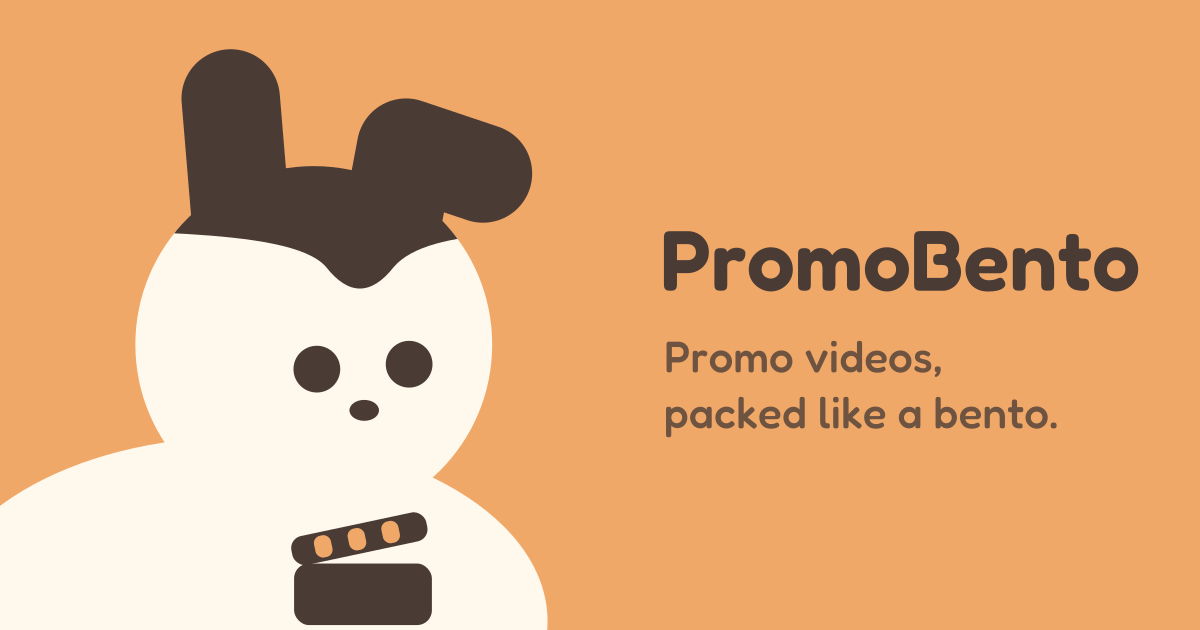
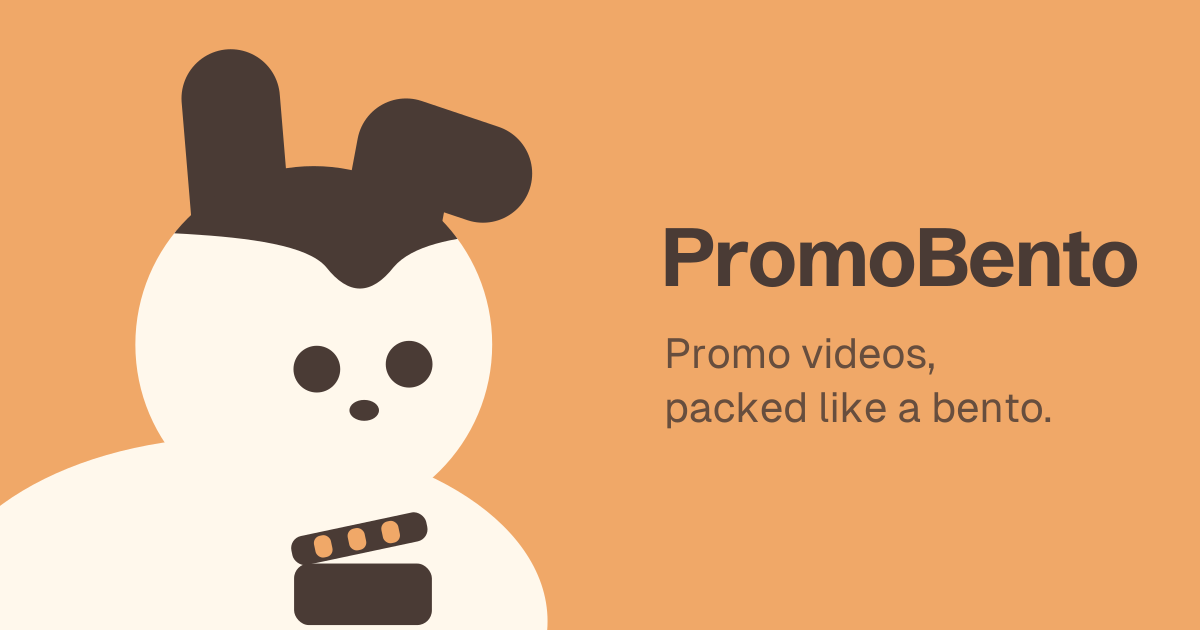
Update PromoBento brand assets and website font design tokens

Changed region(s): [[0.555, 0.3619, 0.9558, 0.4825], [0.555, 0.5127, 0.8942, 0.6937]]

diff --git a/docs/design/agent-studio-reference.html b/docs/design/agent-studio-reference.html
@@ -5,20 +5,20 @@
 <meta name="robots" content="noindex">
 <meta http-equiv="Content-Security-Policy" content="default-src 'none'; script-src 'unsafe-inline'; style-src 'unsafe-inline'; img-src data:; form-action 'none'; base-uri 'none'">
 <title>PromoBento — Studio design reference</title>
[2 lines of base64/hex data omitted]
 <style>
-:root{color-scheme:light;--ui-bg:#FFFFFF;--ui-surface:#F7F8F9;--ui-surfaceRaised:#FFFFFF;--ui-surfaceMuted:#F2F4F6;--ui-text:#25282D;--ui-textMuted:#656D75;--ui-border:#DCE0E4;--ui-borderControl:#7A838D;--ui-primary:#253E5B;--ui-primaryText:#FFFFFF;--ui-primaryHover:#1E334D;--ui-primaryActive:#182A40;--ui-surfaceHover:#F0F3F6;--ui-surfaceActive:#ECF0F4;--ui-link:#253E5B;--ui-focus:#253E5B;--ui-danger:#A33838;--ui-dangerText:#FFFFFF;--ui-dangerHover:#8F2C2C;--ui-dangerActive:#7E2323;--ui-dangerBg:#F8EEEE;--ui-success:#336647;--ui-successBg:#EFF4F1;--ui-warning:#805D27;--ui-warningBg:#F7F2E8;--ui-info:#355C7E;--ui-infoBg:#EEF2F6;--ui-selection:#E9EEF3;--ui-selectionText:#253E5B;--ui-disabled:#E4E8EC;--ui-disabledText:#7B848D;--font-body:Arial, Helvetica, ui-sans-serif, system-ui, -apple-system, BlinkMacSystemFont, "Segoe UI", sans-serif;--font-display:Georgia, "Times New Roman", serif;--rail:248px;--inspector:320px;--touch:44px;--radius-control:4px;--brand-mark-size:32px;--brand-gap:8px}html[data-theme=dark]{color-scheme:dark;--ui-bg:#161819;--ui-surface:#202326;--ui-surfaceRaised:#282D32;--ui-surfaceMuted:#252A2F;--ui-text:#E5E8EC;--ui-textMuted:#ACB4BF;--ui-border:#3B4148;--ui-borderControl:#7E8995;--ui-primary:#B8CCE5;--ui-primaryText:#182D44;--ui-primaryHover:#CCDCF0;--ui-primaryActive:#A2BCD9;--ui-surfaceHover:#282F36;--ui-surfaceActive:#293443;--ui-link:#B8CCE5;--ui-focus:#B8CCE5;--ui-danger:#E6AAAA;--ui-dangerText:#371B1B;--ui-dangerHover:#F0BBBB;--ui-dangerActive:#DA9595;--ui-dangerBg:#35282A;--ui-success:#9BC3AC;--ui-successBg:#24322B;--ui-warning:#D7BD8E;--ui-warningBg:#343024;--ui-info:#AAC5DF;--ui-infoBg:#273340;--ui-selection:#293443;--ui-selectionText:#E5E8EC;--ui-disabled:#31373E;--ui-disabledText:#818C98;}@media(prefers-color-scheme:dark){html[data-theme=system]{color-scheme:dark;--ui-bg:#161819;--ui-surface:#202326;--ui-surfaceRaised:#282D32;--ui-surfaceMuted:#252A2F;--ui-text:#E5E8EC;--ui-textMuted:#ACB4BF;--ui-border:#3B4148;--ui-borderControl:#7E8995;--ui-primary:#B8CCE5;--ui-primaryText:#182D44;--ui-primaryHover:#CCDCF0;--ui-primaryActive:#A2BCD9;--ui-surfaceHover:#282F36;--ui-surfaceActive:#293443;--ui-link:#B8CCE5;--ui-focus:#B8CCE5;--ui-danger:#E6AAAA;--ui-dangerText:#371B1B;--ui-dangerHover:#F0BBBB;--ui-dangerActive:#DA9595;--ui-dangerBg:#35282A;--ui-success:#9BC3AC;--ui-successBg:#24322B;--ui-warning:#D7BD8E;--ui-warningBg:#343024;--ui-info:#AAC5DF;--ui-infoBg:#273340;--ui-selection:#293443;--ui-selectionText:#E5E8EC;--ui-disabled:#31373E;--ui-disabledText:#818C98;}}
+:root{color-scheme:light;--ui-bg:#FFFFFF;--ui-surface:#F7F8F9;--ui-surfaceRaised:#FFFFFF;--ui-surfaceMuted:#F2F4F6;--ui-text:#25282D;--ui-textMuted:#656D75;--ui-border:#DCE0E4;--ui-borderControl:#7A838D;--ui-primary:#253E5B;--ui-primaryText:#FFFFFF;--ui-primaryHover:#1E334D;--ui-primaryActive:#182A40;--ui-surfaceHover:#F0F3F6;--ui-surfaceActive:#ECF0F4;--ui-link:#253E5B;--ui-focus:#253E5B;--ui-danger:#A33838;--ui-dangerText:#FFFFFF;--ui-dangerHover:#8F2C2C;--ui-dangerActive:#7E2323;--ui-dangerBg:#F8EEEE;--ui-success:#336647;--ui-successBg:#EFF4F1;--ui-warning:#805D27;--ui-warningBg:#F7F2E8;--ui-info:#355C7E;--ui-infoBg:#EEF2F6;--ui-selection:#E9EEF3;--ui-selectionText:#253E5B;--ui-disabled:#E4E8EC;--ui-disabledText:#7B848D;--font-body:"Geist Sans", ui-sans-serif, system-ui, -apple-system, BlinkMacSystemFont, "Segoe UI", "PingFang SC", "Hiragino Sans", "Noto Sans CJK SC", "Microsoft YaHei", "Noto Sans Arabic", sans-serif;--font-display:"Schibsted Grotesk", ui-sans-serif, system-ui, -apple-system, BlinkMacSystemFont, "Segoe UI", sans-serif;--font-mono:"Geist Mono", ui-monospace, SFMono-Regular, Consolas, "Liberation Mono", monospace;--wordmark-size:24px;--wordmark-line:32px;--wordmark-weight:700;--wordmark-tracking:-0.8px;--section-size:20px;--section-line:28px;--section-weight:600;--rail:248px;--inspector:320px;--touch:44px;--radius-control:4px;--brand-mark-size:32px;--brand-gap:8px}html[data-theme=dark]{color-scheme:dark;--ui-bg:#161819;--ui-surface:#202326;--ui-surfaceRaised:#282D32;--ui-surfaceMuted:#252A2F;--ui-text:#E5E8EC;--ui-textMuted:#ACB4BF;--ui-border:#3B4148;--ui-borderControl:#7E8995;--ui-primary:#B8CCE5;--ui-primaryText:#182D44;--ui-primaryHover:#CCDCF0;--ui-primaryActive:#A2BCD9;--ui-surfaceHover:#282F36;--ui-surfaceActive:#293443;--ui-link:#B8CCE5;--ui-focus:#B8CCE5;--ui-danger:#E6AAAA;--ui-dangerText:#371B1B;--ui-dangerHover:#F0BBBB;--ui-dangerActive:#DA9595;--ui-dangerBg:#35282A;--ui-success:#9BC3AC;--ui-successBg:#24322B;--ui-warning:#D7BD8E;--ui-warningBg:#343024;--ui-info:#AAC5DF;--ui-infoBg:#273340;--ui-selection:#293443;--ui-selectionText:#E5E8EC;--ui-disabled:#31373E;--ui-disabledText:#818C98;}@media(prefers-color-scheme:dark){html[data-theme=system]{color-scheme:dark;--ui-bg:#161819;--ui-surface:#202326;--ui-surfaceRaised:#282D32;--ui-surfaceMuted:#252A2F;--ui-text:#E5E8EC;--ui-textMuted:#ACB4BF;--ui-border:#3B4148;--ui-borderControl:#7E8995;--ui-primary:#B8CCE5;--ui-primaryText:#182D44;--ui-primaryHover:#CCDCF0;--ui-primaryActive:#A2BCD9;--ui-surfaceHover:#282F36;--ui-surfaceActive:#293443;--ui-link:#B8CCE5;--ui-focus:#B8CCE5;--ui-danger:#E6AAAA;--ui-dangerText:#371B1B;--ui-dangerHover:#F0BBBB;--ui-dangerActive:#DA9595;--ui-dangerBg:#35282A;--ui-success:#9BC3AC;--ui-successBg:#24322B;--ui-warning:#D7BD8E;--ui-warningBg:#343024;--ui-info:#AAC5DF;--ui-infoBg:#273340;--ui-selection:#293443;--ui-selectionText:#E5E8EC;--ui-disabled:#31373E;--ui-disabledText:#818C98;}}
 .brand-heading{display:flex;align-items:center;gap:var(--brand-gap)}.brand-mark{width:var(--brand-mark-size);height:var(--brand-mark-size);flex:none}.brand-mark-white{display:none}html[data-theme=dark] .brand-mark-dark{display:none}html[data-theme=dark] .brand-mark-white{display:block}@media(prefers-color-scheme:dark){html[data-theme=system] .brand-mark-dark{display:none}html[data-theme=system] .brand-mark-white{display:block}}
-*{box-sizing:border-box}body{margin:0;background:var(--ui-bg);color:var(--ui-text);font:16px/1.5 var(--font-body)}button,select,input,textarea{font:inherit;color:inherit}button,select{min-height:var(--touch);border:1px solid var(--ui-borderControl);background:var(--ui-surfaceRaised);padding:8px 12px;border-radius:var(--radius-control);cursor:pointer}input{accent-color:var(--ui-primary)}button:hover{background:var(--ui-surfaceHover)}button:disabled{cursor:not-allowed;opacity:.65}button.primary{background:var(--ui-primary);color:var(--ui-primaryText);border-color:var(--ui-primary)}:focus-visible{outline:2px solid var(--ui-focus);outline-offset:2px}h1,h2{font-family:var(--font-display);font-weight:400}h1{font-size:24px;line-height:32px;margin:0}h2{font-size:24px;margin:0 0 12px}h3{font-size:16px;margin:20px 0 8px}p{margin:8px 0}small,.muted{color:var(--ui-textMuted)}small{font-size:13px}label{display:block;margin:12px 0 6px}.notice{padding:12px 24px;background:var(--ui-surface);border-bottom:1px solid var(--ui-border)}header,footer{display:flex;justify-content:space-between;gap:16px;align-items:center;flex-wrap:wrap;padding:12px 24px;border-bottom:1px solid var(--ui-border)}.top-actions{display:flex;gap:8px;align-items:center}.theme-button{width:var(--touch);height:var(--touch);padding:0}.theme-dark-action{display:none}html[data-theme=dark] .theme-light-action{display:none}html[data-theme=dark] .theme-dark-action{display:inline}@media(prefers-color-scheme:dark){html[data-theme=system] .theme-light-action{display:none}html[data-theme=system] .theme-dark-action{display:inline}}
-.sr-only{position:absolute;width:1px;height:1px;padding:0;overflow:hidden;clip-path:inset(50%)}.skip{position:absolute;left:16px;top:-100px;background:var(--ui-bg);color:var(--ui-text);padding:12px;z-index:99}.skip:focus{top:8px}.workspace{display:grid;grid-template-columns:var(--rail) minmax(0,1fr) var(--inspector)}.rail,.inspector,.center{padding:24px;min-width:0}.rail{border-right:1px solid var(--ui-border)}.inspector{border-left:1px solid var(--ui-border)}.rail button{width:100%;text-align:left;margin:5px 0}.rail button[aria-pressed=true]{background:var(--ui-selection);color:var(--ui-selectionText);border-color:var(--ui-focus)}.bar{display:flex;justify-content:space-between;align-items:flex-start;gap:12px;flex-wrap:wrap}.bar label{margin:0 0 4px}select{max-width:100%}.canvas{width:min(100%,680px);aspect-ratio:var(--video-ratio,16/9);margin:20px auto;display:grid;place-items:center;position:relative;overflow:hidden;background:#101e30;color:#f5f8fc;text-align:center;padding:28px 16px;border:1px solid #566a83}.canvas[data-aspect=portrait]{max-width:270px}.canvas[data-aspect=feed]{max-width:350px}.canvas[data-aspect=square]{max-width:410px}.canvas .sample{font:30px/1.15 Georgia,serif}.canvas p{font-size:12px;color:#dce7f6}.safe{position:absolute;border:1px dashed #dce7f6;pointer-events:none}.transport{display:flex;gap:10px;align-items:center}.transport input{min-width:0;flex:1;min-height:44px}.transport output{font-variant-numeric:tabular-nums;white-space:nowrap;font-size:14px}textarea{width:100%;min-height:112px;resize:vertical;border:1px solid var(--ui-borderControl);border-radius:var(--radius-control);padding:12px;background:var(--ui-surface)}.status{border-left:3px solid var(--ui-info);background:var(--ui-infoBg);color:var(--ui-info);padding:14px;margin:18px 0}.actions{display:flex;flex-wrap:wrap;gap:8px}.quota{border-top:1px solid var(--ui-border);padding-top:12px;margin-top:24px}footer{border-top:1px solid var(--ui-border);font-size:13px}.summary{font-size:14px}ul{padding-left:20px}
+*{box-sizing:border-box}body{margin:0;background:var(--ui-bg);color:var(--ui-text);font:16px/1.5 var(--font-body)}button,select,input,textarea{font:inherit;color:inherit}button,select{min-height:var(--touch);border:1px solid var(--ui-borderControl);background:var(--ui-surfaceRaised);padding:8px 12px;border-radius:var(--radius-control);cursor:pointer}input{accent-color:var(--ui-primary)}button:hover{background:var(--ui-surfaceHover)}button:disabled{cursor:not-allowed;opacity:.65}button.primary{background:var(--ui-primary);color:var(--ui-primaryText);border-color:var(--ui-primary)}:focus-visible{outline:2px solid var(--ui-focus);outline-offset:2px}h1{font-family:var(--font-display);font-size:var(--wordmark-size);line-height:var(--wordmark-line);font-weight:var(--wordmark-weight);letter-spacing:var(--wordmark-tracking);margin:0}h2{font-family:var(--font-body);font-size:var(--section-size);line-height:var(--section-line);font-weight:var(--section-weight);margin:0 0 12px}h3{font-size:16px;margin:20px 0 8px}p{margin:8px 0}small,.muted{color:var(--ui-textMuted)}small{font-size:13px}label{display:block;margin:12px 0 6px}.notice{padding:12px 24px;background:var(--ui-surface);border-bottom:1px solid var(--ui-border)}header,footer{display:flex;justify-content:space-between;gap:16px;align-items:center;flex-wrap:wrap;padding:12px 24px;border-bottom:1px solid var(--ui-border)}.top-actions{display:flex;gap:8px;align-items:center}.theme-button{width:var(--touch);height:var(--touch);padding:0}.theme-dark-action{display:none}html[data-theme=dark] .theme-light-action{display:none}html[data-theme=dark] .theme-dark-action{display:inline}@media(prefers-color-scheme:dark){html[data-theme=system] .theme-light-action{display:none}html[data-theme=system] .theme-dark-action{display:inline}}
+.sr-only{position:absolute;width:1px;height:1px;padding:0;overflow:hidden;clip-path:inset(50%)}.skip{position:absolute;left:16px;top:-100px;background:var(--ui-bg);color:var(--ui-text);padding:12px;z-index:99}.skip:focus{top:8px}.workspace{display:grid;grid-template-columns:var(--rail) minmax(0,1fr) var(--inspector)}.rail,.inspector,.center{padding:24px;min-width:0}.rail{border-right:1px solid var(--ui-border)}.inspector{border-left:1px solid var(--ui-border)}.rail button{width:100%;text-align:left;margin:5px 0}.rail button[aria-pressed=true]{background:var(--ui-selection);color:var(--ui-selectionText);border-color:var(--ui-focus)}.bar{display:flex;justify-content:space-between;align-items:flex-start;gap:12px;flex-wrap:wrap}.bar label{margin:0 0 4px}select{max-width:100%}.canvas{width:min(100%,680px);aspect-ratio:var(--video-ratio,16/9);margin:20px auto;display:grid;place-items:center;position:relative;overflow:hidden;background:#101e30;color:#f5f8fc;text-align:center;padding:28px 16px;border:1px solid #566a83}.canvas[data-aspect=portrait]{max-width:270px}.canvas[data-aspect=feed]{max-width:350px}.canvas[data-aspect=square]{max-width:410px}.canvas .sample{font:30px/1.15 Georgia,serif}.canvas p{font-size:12px;color:#dce7f6}.safe{position:absolute;border:1px dashed #dce7f6;pointer-events:none}.transport{display:flex;gap:10px;align-items:center}.transport input{min-width:0;flex:1;min-height:44px}.transport output{font-family:var(--font-mono);font-variant-numeric:tabular-nums;white-space:nowrap;font-size:14px}textarea{width:100%;min-height:112px;resize:vertical;border:1px solid var(--ui-borderControl);border-radius:var(--radius-control);padding:12px;background:var(--ui-surface)}.status{border-left:3px solid var(--ui-info);background:var(--ui-infoBg);color:var(--ui-info);padding:14px;margin:18px 0}.actions{display:flex;flex-wrap:wrap;gap:8px}.quota{border-top:1px solid var(--ui-border);padding-top:12px;margin-top:24px}footer{border-top:1px solid var(--ui-border);font-size:13px}.summary{font-size:14px}ul{padding-left:20px}
 @media(max-width:1279px){.workspace{grid-template-columns:200px minmax(0,1fr)}.inspector{grid-column:1/-1;border-left:0;border-top:1px solid var(--ui-border);display:grid;grid-template-columns:1fr 1fr;gap:24px}}
 @media(max-width:767px){header,footer,.notice{padding:12px 16px}.workspace{display:block}.rail,.center,.inspector{padding:16px}.rail{border-right:0;border-bottom:1px solid var(--ui-border)}.rail nav{display:flex;gap:8px;overflow-x:auto}.rail button{min-width:120px;width:auto}.rail h2{font-size:20px}.rail .explanation{display:none}.inspector{display:block}.canvas .sample{font-size:26px}.bar>div{max-width:100%}.transport{flex-wrap:wrap}.transport input{min-width:120px}.top-actions small{display:none}}
 @media(prefers-reduced-motion:reduce){*{scroll-behavior:auto}}
 </style></head>
 <body>
 <a class="skip" href="#main">Skip to content</a>
-<div class="notice"><strong>Offline design reference.</strong> Sample states only — no generated video, model calls, cloud rendering, authentication or payment.</div>
[1 lines of base64/hex data omitted]
+<div class="notice"><strong>Offline design reference.</strong> Sample states only — no generated video, model calls, cloud rendering, authentication or payment. Fonts use local fallback in this single-file reference.</div>
[1 lines of base64/hex data omitted]
 <main class="workspace" id="main">
 <aside class="rail"><h2>Shot markers</h2><p class="muted explanation">Optional navigation, not a scene whitelist.</p><nav aria-label="Sample markers"><button data-frame="0">Opening · 000</button><button data-frame="240">Product · 240</button><button data-frame="780">Resolution · 780</button></nav><p class="explanation"><small>Three markers in this sample. A composition can use any number, including one continuous shot.</small></p></aside>
 <section class="center" aria-label="Static composition reference"><div class="bar"><div><h2>Preview</h2><small>Full preview while editing · paid downloads after checks</small><br><small id="identity">Sample revision · frame 240</small></div><div><label for="target">Platform target</label><select id="target"><option value="tiktok:portrait">TikTok · 9:16</option><option value="instagram_feed:feed">Instagram Feed · 4:5</option><option value="instagram_feed:square">Instagram Feed · 1:1</option><option value="instagram_reels:portrait">Instagram Reels · 9:16</option><option value="x:landscape">X · 16:9</option><option value="youtube:landscape">YouTube · 16:9</option><option value="youtube_shorts:portrait">YouTube Shorts · 9:16</option></select></div></div>

diff --git a/docs/design/agent-studio-reference.template.html b/docs/design/agent-studio-reference.template.html
@@ -9,15 +9,15 @@
 <style>
 @@TOKENS@@
 .brand-heading{display:flex;align-items:center;gap:var(--brand-gap)}.brand-mark{width:var(--brand-mark-size);height:var(--brand-mark-size);flex:none}.brand-mark-white{display:none}html[data-theme=dark] .brand-mark-dark{display:none}html[data-theme=dark] .brand-mark-white{display:block}@media(prefers-color-scheme:dark){html[data-theme=system] .brand-mark-dark{display:none}html[data-theme=system] .brand-mark-white{display:block}}
-*{box-sizing:border-box}body{margin:0;background:var(--ui-bg);color:var(--ui-text);font:16px/1.5 var(--font-body)}button,select,input,textarea{font:inherit;color:inherit}button,select{min-height:var(--touch);border:1px solid var(--ui-borderControl);background:var(--ui-surfaceRaised);padding:8px 12px;border-radius:var(--radius-control);cursor:pointer}input{accent-color:var(--ui-primary)}button:hover{background:var(--ui-surfaceHover)}button:disabled{cursor:not-allowed;opacity:.65}button.primary{background:var(--ui-primary);color:var(--ui-primaryText);border-color:var(--ui-primary)}:focus-visible{outline:2px solid var(--ui-focus);outline-offset:2px}h1,h2{font-family:var(--font-display);font-weight:400}h1{font-size:24px;line-height:32px;margin:0}h2{font-size:24px;margin:0 0 12px}h3{font-size:16px;margin:20px 0 8px}p{margin:8px 0}small,.muted{color:var(--ui-textMuted)}small{font-size:13px}label{display:block;margin:12px 0 6px}.notice{padding:12px 24px;background:var(--ui-surface);border-bottom:1px solid var(--ui-border)}header,footer{display:flex;justify-content:space-between;gap:16px;align-items:center;flex-wrap:wrap;padding:12px 24px;border-bottom:1px solid var(--ui-border)}.top-actions{display:flex;gap:8px;align-items:center}.theme-button{width:var(--touch);height:var(--touch);padding:0}.theme-dark-action{display:none}html[data-theme=dark] .theme-light-action{display:none}html[data-theme=dark] .theme-dark-action{display:inline}@media(prefers-color-scheme:dark){html[data-theme=system] .theme-light-action{display:none}html[data-theme=system] .theme-dark-action{display:inline}}
-.sr-only{position:absolute;width:1px;height:1px;padding:0;overflow:hidden;clip-path:inset(50%)}.skip{position:absolute;left:16px;top:-100px;background:var(--ui-bg);color:var(--ui-text);padding:12px;z-index:99}.skip:focus{top:8px}.workspace{display:grid;grid-template-columns:var(--rail) minmax(0,1fr) var(--inspector)}.rail,.inspector,.center{padding:24px;min-width:0}.rail{border-right:1px solid var(--ui-border)}.inspector{border-left:1px solid var(--ui-border)}.rail button{width:100%;text-align:left;margin:5px 0}.rail button[aria-pressed=true]{background:var(--ui-selection);color:var(--ui-selectionText);border-color:var(--ui-focus)}.bar{display:flex;justify-content:space-between;align-items:flex-start;gap:12px;flex-wrap:wrap}.bar label{margin:0 0 4px}select{max-width:100%}.canvas{width:min(100%,680px);aspect-ratio:var(--video-ratio,16/9);margin:20px auto;display:grid;place-items:center;position:relative;overflow:hidden;background:#101e30;color:#f5f8fc;text-align:center;padding:28px 16px;border:1px solid #566a83}.canvas[data-aspect=portrait]{max-width:270px}.canvas[data-aspect=feed]{max-width:350px}.canvas[data-aspect=square]{max-width:410px}.canvas .sample{font:30px/1.15 Georgia,serif}.canvas p{font-size:12px;color:#dce7f6}.safe{position:absolute;border:1px dashed #dce7f6;pointer-events:none}.transport{display:flex;gap:10px;align-items:center}.transport input{min-width:0;flex:1;min-height:44px}.transport output{font-variant-numeric:tabular-nums;white-space:nowrap;font-size:14px}textarea{width:100%;min-height:112px;resize:vertical;border:1px solid var(--ui-borderControl);border-radius:var(--radius-control);padding:12px;background:var(--ui-surface)}.status{border-left:3px solid var(--ui-info);background:var(--ui-infoBg);color:var(--ui-info);padding:14px;margin:18px 0}.actions{display:flex;flex-wrap:wrap;gap:8px}.quota{border-top:1px solid var(--ui-border);padding-top:12px;margin-top:24px}footer{border-top:1px solid var(--ui-border);font-size:13px}.summary{font-size:14px}ul{padding-left:20px}
+*{box-sizing:border-box}body{margin:0;background:var(--ui-bg);color:var(--ui-text);font:16px/1.5 var(--font-body)}button,select,input,textarea{font:inherit;color:inherit}button,select{min-height:var(--touch);border:1px solid var(--ui-borderControl);background:var(--ui-surfaceRaised);padding:8px 12px;border-radius:var(--radius-control);cursor:pointer}input{accent-color:var(--ui-primary)}button:hover{background:var(--ui-surfaceHover)}button:disabled{cursor:not-allowed;opacity:.65}button.primary{background:var(--ui-primary);color:var(--ui-primaryText);border-color:var(--ui-primary)}:focus-visible{outline:2px solid var(--ui-focus);outline-offset:2px}h1{font-family:var(--font-display);font-size:var(--wordmark-size);line-height:var(--wordmark-line);font-weight:var(--wordmark-weight);letter-spacing:var(--wordmark-tracking);margin:0}h2{font-family:var(--font-body);font-size:var(--section-size);line-height:var(--section-line);font-weight:var(--section-weight);margin:0 0 12px}h3{font-size:16px;margin:20px 0 8px}p{margin:8px 0}small,.muted{color:var(--ui-textMuted)}small{font-size:13px}label{display:block;margin:12px 0 6px}.notice{padding:12px 24px;background:var(--ui-surface);border-bottom:1px solid var(--ui-border)}header,footer{display:flex;justify-content:space-between;gap:16px;align-items:center;flex-wrap:wrap;padding:12px 24px;border-bottom:1px solid var(--ui-border)}.top-actions{display:flex;gap:8px;align-items:center}.theme-button{width:var(--touch);height:var(--touch);padding:0}.theme-dark-action{display:none}html[data-theme=dark] .theme-light-action{display:none}html[data-theme=dark] .theme-dark-action{display:inline}@media(prefers-color-scheme:dark){html[data-theme=system] .theme-light-action{display:none}html[data-theme=system] .theme-dark-action{display:inline}}
+.sr-only{position:absolute;width:1px;height:1px;padding:0;overflow:hidden;clip-path:inset(50%)}.skip{position:absolute;left:16px;top:-100px;background:var(--ui-bg);color:var(--ui-text);padding:12px;z-index:99}.skip:focus{top:8px}.workspace{display:grid;grid-template-columns:var(--rail) minmax(0,1fr) var(--inspector)}.rail,.inspector,.center{padding:24px;min-width:0}.rail{border-right:1px solid var(--ui-border)}.inspector{border-left:1px solid var(--ui-border)}.rail button{width:100%;text-align:left;margin:5px 0}.rail button[aria-pressed=true]{background:var(--ui-selection);color:var(--ui-selectionText);border-color:var(--ui-focus)}.bar{display:flex;justify-content:space-between;align-items:flex-start;gap:12px;flex-wrap:wrap}.bar label{margin:0 0 4px}select{max-width:100%}.canvas{width:min(100%,680px);aspect-ratio:var(--video-ratio,16/9);margin:20px auto;display:grid;place-items:center;position:relative;overflow:hidden;background:#101e30;color:#f5f8fc;text-align:center;padding:28px 16px;border:1px solid #566a83}.canvas[data-aspect=portrait]{max-width:270px}.canvas[data-aspect=feed]{max-width:350px}.canvas[data-aspect=square]{max-width:410px}.canvas .sample{font:30px/1.15 Georgia,serif}.canvas p{font-size:12px;color:#dce7f6}.safe{position:absolute;border:1px dashed #dce7f6;pointer-events:none}.transport{display:flex;gap:10px;align-items:center}.transport input{min-width:0;flex:1;min-height:44px}.transport output{font-family:var(--font-mono);font-variant-numeric:tabular-nums;white-space:nowrap;font-size:14px}textarea{width:100%;min-height:112px;resize:vertical;border:1px solid var(--ui-borderControl);border-radius:var(--radius-control);padding:12px;background:var(--ui-surface)}.status{border-left:3px solid var(--ui-info);background:var(--ui-infoBg);color:var(--ui-info);padding:14px;margin:18px 0}.actions{display:flex;flex-wrap:wrap;gap:8px}.quota{border-top:1px solid var(--ui-border);padding-top:12px;margin-top:24px}footer{border-top:1px solid var(--ui-border);font-size:13px}.summary{font-size:14px}ul{padding-left:20px}
 @media(max-width:1279px){.workspace{grid-template-columns:200px minmax(0,1fr)}.inspector{grid-column:1/-1;border-left:0;border-top:1px solid var(--ui-border);display:grid;grid-template-columns:1fr 1fr;gap:24px}}
 @media(max-width:767px){header,footer,.notice{padding:12px 16px}.workspace{display:block}.rail,.center,.inspector{padding:16px}.rail{border-right:0;border-bottom:1px solid var(--ui-border)}.rail nav{display:flex;gap:8px;overflow-x:auto}.rail button{min-width:120px;width:auto}.rail h2{font-size:20px}.rail .explanation{display:none}.inspector{display:block}.canvas .sample{font-size:26px}.bar>div{max-width:100%}.transport{flex-wrap:wrap}.transport input{min-width:120px}.top-actions small{display:none}}
 @media(prefers-reduced-motion:reduce){*{scroll-behavior:auto}}
 </style></head>
 <body>
 <a class="skip" href="#main">Skip to content</a>
-<div class="notice"><strong>Offline design reference.</strong> Sample states only — no generated video, model calls, cloud rendering, authentication or payment.</div>
+<div class="notice"><strong>Offline design reference.</strong> Sample states only — no generated video, model calls, cloud rendering, authentication or payment. Fonts use local fallback in this single-file reference.</div>
 <header><div><h1 class="brand-heading"><img class="brand-mark brand-mark-dark" src="@@BRAND_MARK_DARK@@" alt="" aria-hidden="true"><img class="brand-mark brand-mark-white" src="@@BRAND_MARK_WHITE@@" alt="" aria-hidden="true">@@BRAND_NAME@@</h1><small>Sample project · working draft</small></div><div class="top-actions"><button class="theme-button" id="theme"><span class="theme-light-action"><span aria-hidden="true">☾</span><span class="sr-only">Switch to dark mode</span></span><span class="theme-dark-action"><span aria-hidden="true">☀</span><span class="sr-only">Switch to light mode</span></span></button><button id="export" class="primary">Buy &amp; export</button></div></header>
 <main class="workspace" id="main">
 <aside class="rail"><h2>Shot markers</h2><p class="muted explanation">Optional navigation, not a scene whitelist.</p><nav aria-label="Sample markers"><button data-frame="0">Opening · 000</button><button data-frame="240">Product · 240</button><button data-frame="780">Resolution · 780</button></nav><p class="explanation"><small>Three markers in this sample. A composition can use any number, including one continuous shot.</small></p></aside>

diff --git a/docs/prd/02-ux-and-ui.md b/docs/prd/02-ux-and-ui.md
@@ -17,7 +17,7 @@
 
 ## 2 视觉系统与基础组件
 
-[UI tokens](../../config/ui-tokens.json) 是字体、字号、尺寸、间距、层级和动效数值的唯一来源；[主题 tokens](../../config/theme-tokens.json) 是界面颜色与配对的唯一来源。品牌可组合兔子标志与 PromoBento 文字字标，字标取 `typography.styles.wordmark`，四周至少保留 `spacing.3`。品牌图形的橙、奶油与可可色仅用于素材，不替换界面主题；图标、分享图和使用说明见[品牌素材](../../public/brand/README.md)。公开标题用 display 字体，正文、控件和编辑器用 sans；不在编辑器与数据中过度使用衬线或斜体。每个操作区域只有一个主要 CTA，两个人群入口同层级，视觉不能暗示未经证明的效果或收益。
+[UI tokens](../../config/ui-tokens.json) 是字体、字号、尺寸、间距、层级和动效数值的唯一来源；[主题 tokens](../../config/theme-tokens.json) 是界面颜色与配对的唯一来源。品牌可组合兔子标志与 PromoBento 文字字标，字标取 `typography.styles.wordmark`，四周至少保留 `spacing.3`。品牌图形的橙、奶油与可可色仅用于素材，不替换界面主题；图标、分享图和使用说明见[品牌素材](../../public/brand/README.md)。公开标题用 display 字体，正文、控件和编辑器用 sans；不在编辑器与数据中过度使用衬线或斜体。网站拉丁字形计划通过 Fontsource 静态资源自托管：Schibsted Grotesk 700 用于主标题和字标，Geist Sans 400/500/600 用于正文与 UI，Geist Mono 400/500 用于时间码、价格和对齐数字。实际建站时按 UI tokens 的 `typography.fontSources.cssImports` 导入所需 Latin 字重，使用 `font-display: swap`，不依赖第三方运行时字体 CDN。CJK/RTL 文字保留系统字体回退。离线 Studio 不内嵌字体，不能代替生产字体与多语言排版的浏览器验收。每个操作区域只有一个主要 CTA，两个人群入口同层级，视觉不能暗示未经证明的效果或收益。
 
 | 用途 | token 与使用要求 |
 | --- | --- |

diff --git a/public/brand/README.md b/public/brand/README.md
@@ -1,6 +1,6 @@
 # PromoBento 品牌素材
 
-来自项目所有者提供的 `promobento-icons.zip`。保留原始图形、PNG/ICO 和已转曲的分享图，仅整理 SVG 的内部版本标题。素材路径由 [brand.json](../../config/brand.json) 登记，英文文案由 [en.json](../../locales/en.json) 提供。
+来自项目所有者提供的 `promobento-icons-2.zip`。与已入库素材比对后，只替换改动的 SVG 和分享图，未变化的 PNG/ICO 保留。素材路径由 [brand.json](../../config/brand.json) 登记，英文文案由 [en.json](../../locales/en.json) 提供。
 
 ## 文案分工
 
@@ -28,7 +28,7 @@
 | `brand/mark-dark.svg`、`brand/mark-white.svg` | 透明底单色标志，按背景选择 | 各自为矢量源 |
 | `manifest.webmanifest` | 名称、启动 URL、颜色与安装图标元数据 | 图标路径指向同目录文件 |
 
-保留 maskable 图案的安全区，不使用普通安装图标直接替换。`icon.svg` 与 `brand/mark.svg` 保持一致。分享图中的字标和口号已转路径，无需加载字体；来源包注明 Fredoka / SIL OFL，仓库未包含字体文件。
+保留 maskable 图案的安全区，不使用普通安装图标直接替换。`icon.svg` 与 `brand/mark.svg` 保持一致。分享图中的字标和口号已转成 SVG 路径，分别采用 Schibsted Grotesk Bold 与 Geist Sans Regular，不需要额外下载字体才能显示分享图。使用的字体为 SIL OFL 1.1；网站字体的自托管计划见 [UI tokens](../../config/ui-tokens.json)，当前仓库不含字体文件。
 
 ## 网站接入
 

diff --git a/docs/prd/10-i18n-and-themes.md b/docs/prd/10-i18n-and-themes.md
@@ -53,7 +53,7 @@ SSR 输出 data-theme=system/light/dark；System 首屏由 prefers-color-scheme 
 
 匿名无会话/主题/语言 Cookie 的公开英语 HTML 可缓存 System；有相关 Cookie 的个性化 HTML private,no-store 并绕过共享缓存。创建、认证、应用、邀请、审阅、后台、私有授权和 Set-Cookie 一律 no-store。公共内容 hash 静态资源可长缓存；不以 Vary:Cookie 代替实际隔离，需两浏览器验证。
 
-网站 tokens 来自 theme/ui 配置，视觉、响应式和可访问性按 [02](02-ux-and-ui.md)。系统字体不保证跨设备字宽相同，视频使用独立受控资源。Dark 不全局 invert；对比度须在两种主题的实际前景背景组合中验证。
+网站 tokens 来自 theme/ui 配置，视觉、响应式和可访问性按 [02](02-ux-and-ui.md)。网站 Latin 字体按 UI tokens 计划自托管；非拉丁字符和离线参考的系统回退字体在不同设备可能字宽不同，需验收混排、换行与 RTL。视频使用独立受控资源。Dark 不全局 invert；对比度须在两种主题的实际前景背景组合中验证。
 
 视频在独立来源运行冻结样式，不读取 UI tokens、Cookie 或设备配色。Light/Dark 网站均可播放任意深浅作品。prefers-reduced-motion 只减少 UI 动画，不改视频时间线。styleLabel 不能用于在冻结后偷偷切换实际渲染风格。
 
